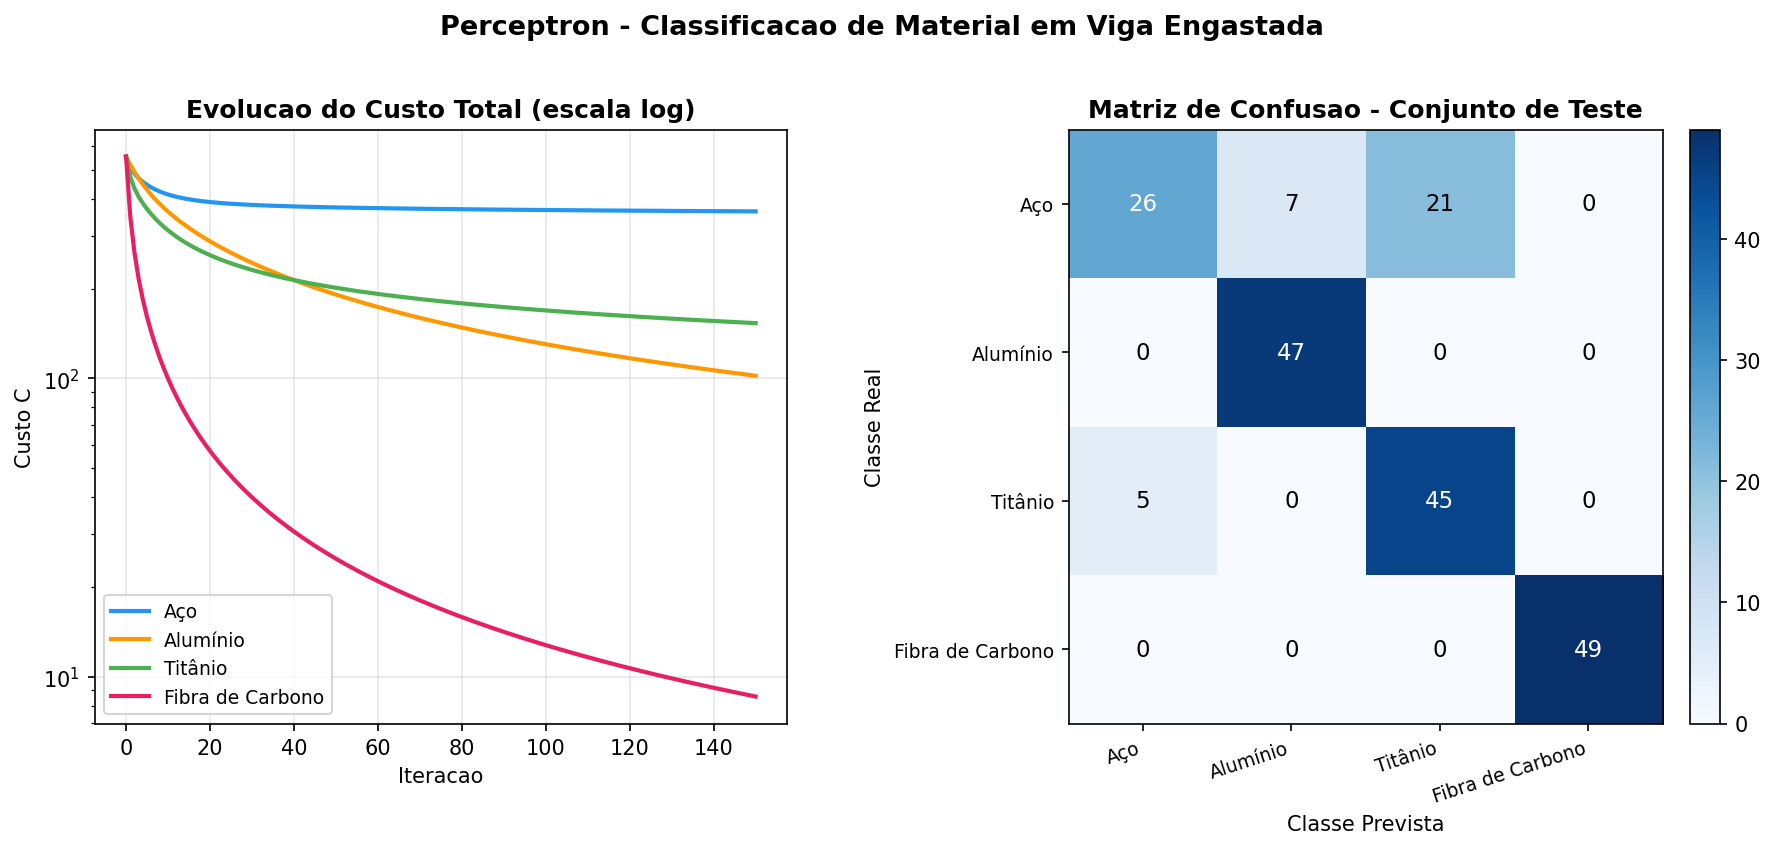
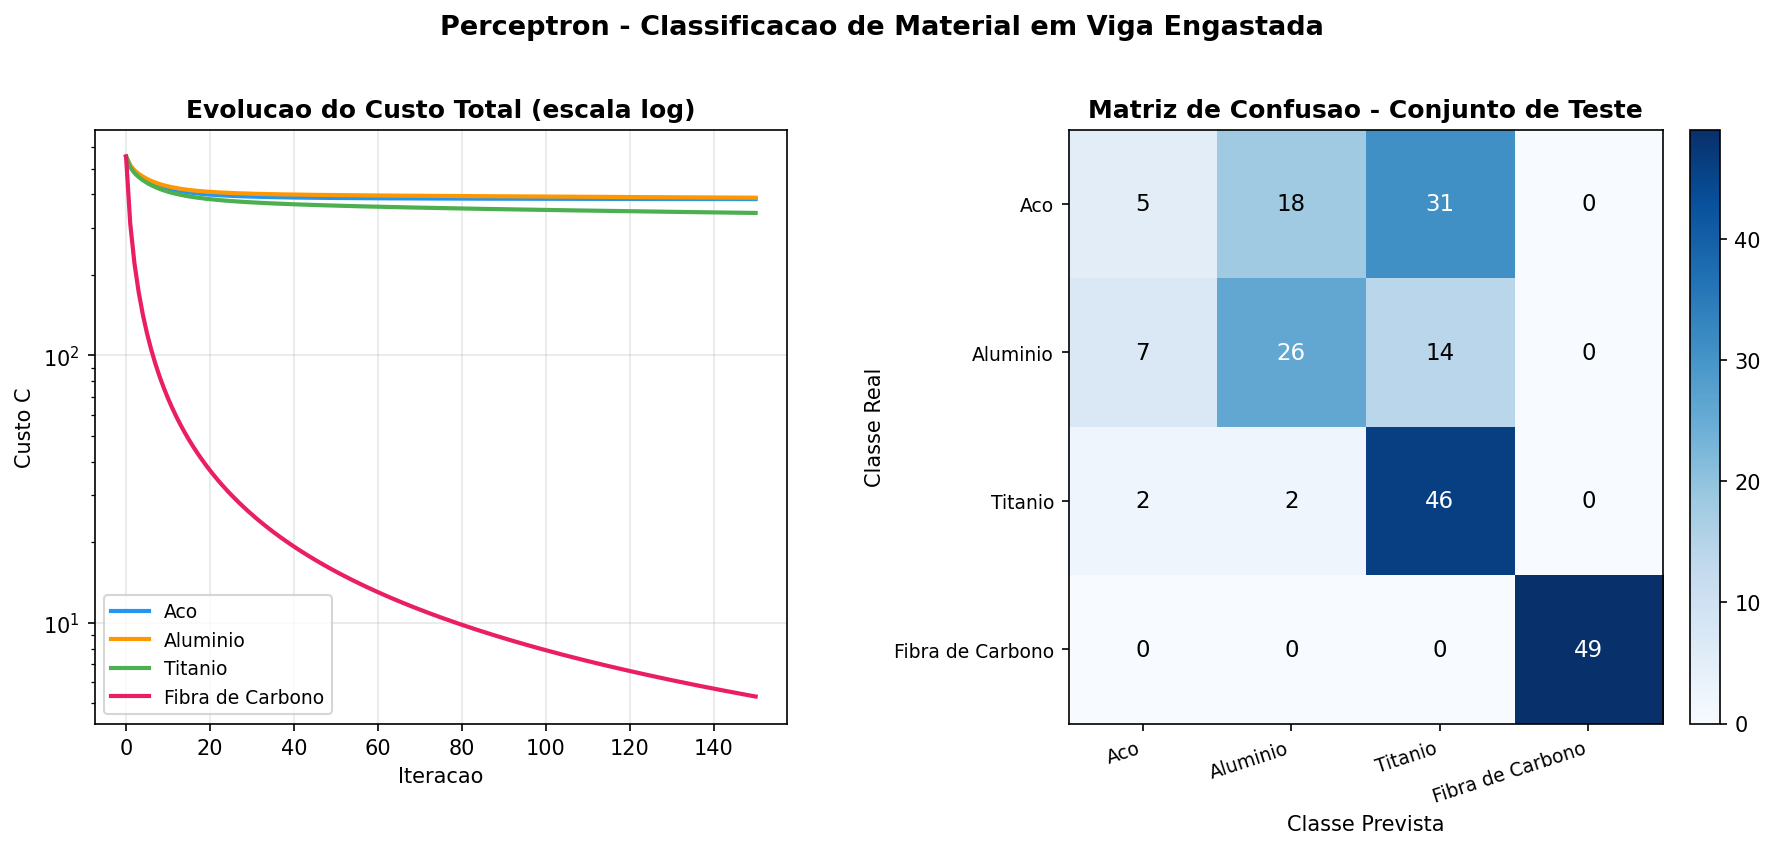
Alterações 1

diff --git a/modelo_matematico.py b/modelo_matematico.py
@@ -20,10 +20,10 @@ import numpy as np
 #   zeta  -> razao de amortecimento
 #   label -> classe numerica usada no treinamento
 MATERIAIS = {
-    "A\u00e7o": {"E": 200e9, "rho": 7850, "zeta": 0.010, "label": 0},
-    "Alum\u00ednio": {"E": 70e9, "rho": 2700, "zeta": 0.015, "label": 1},
-    "Tit\u00e2nio": {"E": 110e9, "rho": 4500, "zeta": 0.008, "label": 2},
-    "Fibra de Carbono": {"E": 150e9, "rho": 1600, "zeta": 0.020, "label": 3},
+    "Aco": {"E": 200e9, "rho": 7850, "zeta": 0.05, "label": 0},
+    "Aluminio": {"E": 70e9, "rho": 2700, "zeta": 0.05, "label": 1},
+    "Titanio": {"E": 110e9, "rho": 4500, "zeta": 0.05, "label": 2},
+    "Fibra de Carbono": {"E": 150e9, "rho": 1600, "zeta": 0.05, "label": 3},
 }
 
 
@@ -36,7 +36,7 @@ I_sec = b * h**3 / 12
 
 
 # Constante modal do primeiro modo de uma viga engastada-livre.
-BETA_MODO_1 = 1.875104068711961
+BETA_MODO_1 = 1.875
 
 
 # Atalhos usados pelo restante do projeto.
@@ -73,7 +73,7 @@ def frequencia_natural(E, rho):
     return (BETA_MODO_1**2) * np.sqrt(rigidez_flexao / (massa_linear * L**4))
 
 
-def resposta_modal_livre(omega_n, zeta, t, q0=1.0, dq0=0.0):
+def resposta_modal_livre(omega_n, zeta, t, x0=1.0, v0=0.0):
     """
     Gera a resposta amortecida de um sistema de um grau de liberdade.
 
@@ -94,9 +94,9 @@ def resposta_modal_livre(omega_n, zeta, t, q0=1.0, dq0=0.0):
         Razao de amortecimento.
     t : array
         Vetor de tempo.
-    q0 : float
+    x0 : float
         Deslocamento inicial.
-    dq0 : float
+    v0 : float
         Velocidade inicial.
 
     Retorna
@@ -107,8 +107,8 @@ def resposta_modal_livre(omega_n, zeta, t, q0=1.0, dq0=0.0):
     zeta_eff = np.clip(zeta, 0.0, 0.999999)
     omega_d = omega_n * np.sqrt(max(1.0 - zeta_eff**2, 1e-12))
     envelope = np.exp(-zeta_eff * omega_n * t)
-    termo_seno = (dq0 + zeta_eff * omega_n * q0) / omega_d
-    return envelope * (q0 * np.cos(omega_d * t) + termo_seno * np.sin(omega_d * t))
+    termo_seno = (v0 + zeta_eff * omega_n * x0) / omega_d
+    return envelope * (x0 * np.cos(omega_d * t) + termo_seno * np.sin(omega_d * t))
 
 
 def simular_vibracao(E, rho, zeta, t, A0=1.0):
@@ -138,7 +138,7 @@ def simular_vibracao(E, rho, zeta, t, A0=1.0):
         Sinal de vibracao livre amortecida.
     """
     omega_n = frequencia_natural(E, rho)
-    return resposta_modal_livre(omega_n, zeta, t, q0=A0, dq0=0.0)
+    return resposta_modal_livre(omega_n, zeta, t, x0=A0, v0=0.0)
 
 
 def extrair_features(sinal, t):
@@ -236,10 +236,10 @@ def gerar_dataset(n_por_classe=250, seed=42):
     for props in MATERIAIS.values():
         for _ in range(n_por_classe):
             # Pequenas variacoes deixam o dataset menos artificial.
-            E_v = props["E"] * np.random.uniform(0.95, 1.05)
+            E_v = props["E"]
             rho_v = props["rho"] * np.random.uniform(0.95, 1.05)
-            zeta_v = props["zeta"] * np.random.uniform(0.90, 1.10)
-            A0_v = np.random.uniform(0.8, 1.2)
+            zeta_v = props["zeta"]
+            A0_v = np.random.uniform(1, 1.1)
 
             sinal = simular_vibracao(E_v, rho_v, zeta_v, t, A0=A0_v)
             features = extrair_features(sinal, t)
